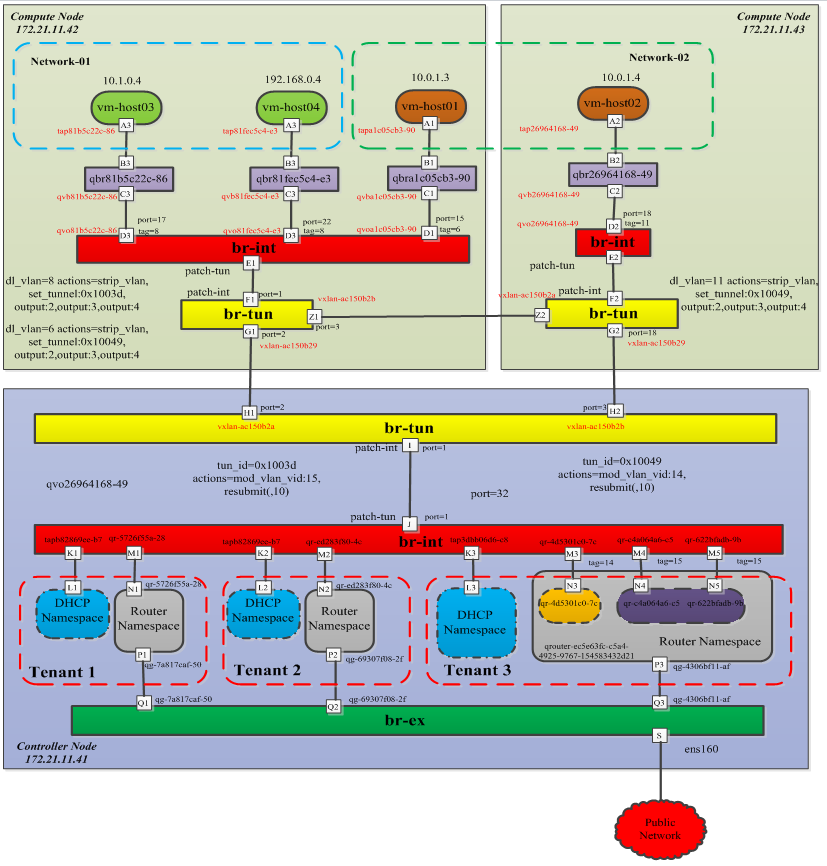
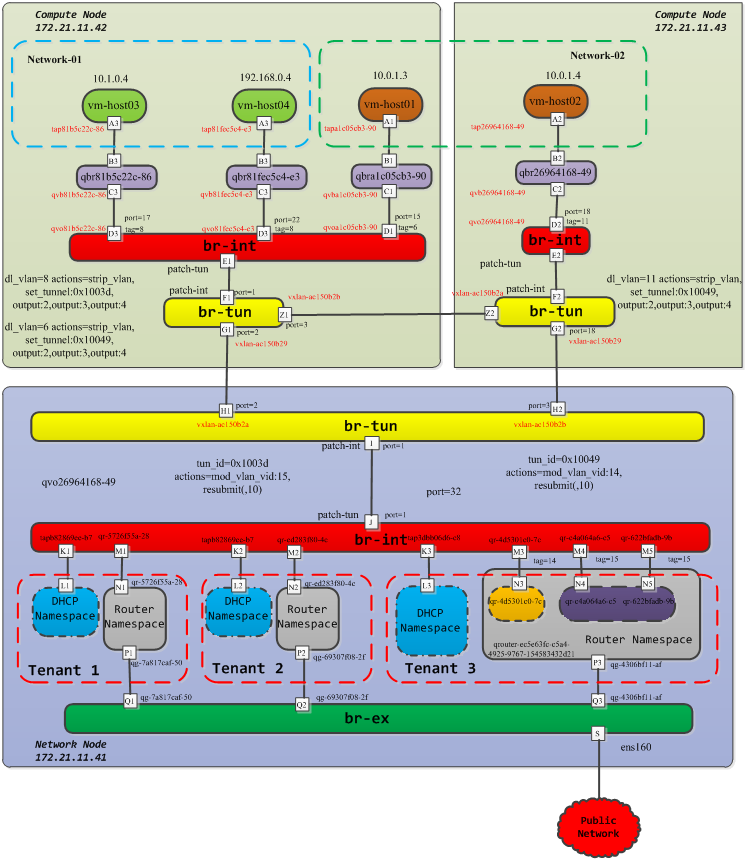
Site updated at 2016-07-25 03:38:03 UTC

diff --git a/index.html b/index.html
@@ -1373,13 +1373,13 @@ Neutron-plugin可以理解为不同网络功能实现的入口，各个厂商可
 </span><span class='line'> cookie=0xb05867d95f1c0bc0, duration=1198890.106s, table=22, n_packets=91, n_bytes=7490, idle_age=65534, hard_age=65534, priority=0 actions=drop</span></code></pre></td></tr></table></div></figure>
 
 
-<h1><strong>3、控制节点的Vxlan流量转发机制</strong></h1>
+<h1><strong>3、网络节点的Vxlan流量转发机制</strong></h1>
 
-<p>多机环境下，控制节点的网桥整体结构如下所示：</p>
+<p>多机环境下，网络节点的网桥整体结构如下所示：</p>
 
 <p><img src="/images/understanding_neutron_controller_node_bridge.PNG"></p>
 
-<p>在该多机环境下，网络节点和控制节点部署在一起，所以这里所说的控制节点的neutron网络服务实际上指的是网络节点所部署的neutron服务，包括DHCP服务和路由服务等。
+<p>在该多机环境下，网络节点和控制节点部署在一起，网络节点所部署的neutron服务，包括DHCP服务和路由服务等。
 该controller节点主要包括三种类型的网桥，br-int,br-tun,br-ex。</p>
 
 <figure class='code'><div class="highlight"><table><tr><td class="gutter"><pre class="line-numbers"><span class='line-number'>1</span>
@@ -1642,7 +1642,7 @@ Neutron-plugin可以理解为不同网络功能实现的入口，各个厂商可
 
 <h2><strong>3.1 vxlan标签设置以及流表转发机制</strong></h2>
 
-<p>类似于计算节点的VXLAN tunnel，controller节点的VXALN规则也是通过br-tun网桥来实现的，该网桥主要根据自身的规则将合适的网包经过 VXLAN 隧道送出去，可以从两个维度来进行思考：</p>
+<p>类似于计算节点的VXLAN tunnel，network节点的VXALN规则也是通过br-tun网桥来实现的，该网桥主要根据自身的规则将合适的网包经过 VXLAN 隧道送出去，可以从两个维度来进行思考：</p>
 
 <ul>
 <li>从vm内部过来的数据包进行规则的设置，数据包带着正确的vlan tag过来，从正确的tunnel扔出去；</li>
@@ -1650,7 +1650,7 @@ Neutron-plugin可以理解为不同网络功能实现的入口，各个厂商可
 </ul>
 
 
-<p>以多机环境中172.21.11.41上的controller节点为例，查看br-tun网桥的信息。可以看到不同的VXLAN tunnel号对应不同的网络连接。</p>
+<p>以多机环境中172.21.11.41上的network节点为例，查看br-tun网桥的信息。可以看到不同的VXLAN tunnel号对应不同的网络连接。</p>
 
 <figure class='code'><div class="highlight"><table><tr><td class="gutter"><pre class="line-numbers"><span class='line-number'>1</span>
 <span class='line-number'>2</span>
@@ -1774,7 +1774,7 @@ Neutron-plugin可以理解为不同网络功能实现的入口，各个厂商可
 
 <h2><strong>3.2 VLAN标签设置以及流表转发机制</strong></h2>
 
-<p>在controller节点上，vlan tag的设置主要在br-int网桥上进行，作为一个正常的二层交换设备进行使用，只是根据vlan和mac进行数据包的转发。接口类型包括：</p>
+<p>在network节点上，vlan tag的设置主要在br-int网桥上进行，作为一个正常的二层交换设备进行使用，只是根据vlan和mac进行数据包的转发。接口类型包括：</p>
 
 <ul>
 <li>tap-xxx，连接到网络 DHCP 服务的命名空间；</li>
@@ -2047,7 +2047,7 @@ Neutron-plugin可以理解为不同网络功能实现的入口，各个厂商可
 </span><span class='line'>qdhcp-3a14c59d-37f1-42a7-a135-29466583d3e2</span></code></pre></td></tr></table></div></figure>
 
 
-<p>在该控制节点上创建的路由服务是qrouter-ec5e63fc-c5a4-4925-9767-154583432d21，于是可以进一步查看namespace中的信息。</p>
+<p>在该network节点上创建的路由服务是qrouter-ec5e63fc-c5a4-4925-9767-154583432d21，于是可以进一步查看namespace中的信息。</p>
 
 <figure class='code'><div class="highlight"><table><tr><td class="gutter"><pre class="line-numbers"><span class='line-number'>1</span>
 <span class='line-number'>2</span>

diff --git a/blog/2016/07/11/understanding-neutron-vlan-vxlan/index.html b/blog/2016/07/11/understanding-neutron-vlan-vxlan/index.html
@@ -755,13 +755,13 @@
 </span><span class='line'> cookie=0xb05867d95f1c0bc0, duration=1198890.106s, table=22, n_packets=91, n_bytes=7490, idle_age=65534, hard_age=65534, priority=0 actions=drop</span></code></pre></td></tr></table></div></figure>
 
 
-<h1><strong>3、控制节点的Vxlan流量转发机制</strong></h1>
+<h1><strong>3、网络节点的Vxlan流量转发机制</strong></h1>
 
-<p>多机环境下，控制节点的网桥整体结构如下所示：</p>
+<p>多机环境下，网络节点的网桥整体结构如下所示：</p>
 
 <p><img src="/images/understanding_neutron_controller_node_bridge.PNG"></p>
 
-<p>在该多机环境下，网络节点和控制节点部署在一起，所以这里所说的控制节点的neutron网络服务实际上指的是网络节点所部署的neutron服务，包括DHCP服务和路由服务等。
+<p>在该多机环境下，网络节点和控制节点部署在一起，网络节点所部署的neutron服务，包括DHCP服务和路由服务等。
 该controller节点主要包括三种类型的网桥，br-int,br-tun,br-ex。</p>
 
 <figure class='code'><div class="highlight"><table><tr><td class="gutter"><pre class="line-numbers"><span class='line-number'>1</span>
@@ -1024,7 +1024,7 @@
 
 <h2><strong>3.1 vxlan标签设置以及流表转发机制</strong></h2>
 
-<p>类似于计算节点的VXLAN tunnel，controller节点的VXALN规则也是通过br-tun网桥来实现的，该网桥主要根据自身的规则将合适的网包经过 VXLAN 隧道送出去，可以从两个维度来进行思考：</p>
+<p>类似于计算节点的VXLAN tunnel，network节点的VXALN规则也是通过br-tun网桥来实现的，该网桥主要根据自身的规则将合适的网包经过 VXLAN 隧道送出去，可以从两个维度来进行思考：</p>
 
 <ul>
 <li>从vm内部过来的数据包进行规则的设置，数据包带着正确的vlan tag过来，从正确的tunnel扔出去；</li>
@@ -1032,7 +1032,7 @@
 </ul>
 
 
-<p>以多机环境中172.21.11.41上的controller节点为例，查看br-tun网桥的信息。可以看到不同的VXLAN tunnel号对应不同的网络连接。</p>
+<p>以多机环境中172.21.11.41上的network节点为例，查看br-tun网桥的信息。可以看到不同的VXLAN tunnel号对应不同的网络连接。</p>
 
 <figure class='code'><div class="highlight"><table><tr><td class="gutter"><pre class="line-numbers"><span class='line-number'>1</span>
 <span class='line-number'>2</span>
@@ -1156,7 +1156,7 @@
 
 <h2><strong>3.2 VLAN标签设置以及流表转发机制</strong></h2>
 
-<p>在controller节点上，vlan tag的设置主要在br-int网桥上进行，作为一个正常的二层交换设备进行使用，只是根据vlan和mac进行数据包的转发。接口类型包括：</p>
+<p>在network节点上，vlan tag的设置主要在br-int网桥上进行，作为一个正常的二层交换设备进行使用，只是根据vlan和mac进行数据包的转发。接口类型包括：</p>
 
 <ul>
 <li>tap-xxx，连接到网络 DHCP 服务的命名空间；</li>
@@ -1429,7 +1429,7 @@
 </span><span class='line'>qdhcp-3a14c59d-37f1-42a7-a135-29466583d3e2</span></code></pre></td></tr></table></div></figure>
 
 
-<p>在该控制节点上创建的路由服务是qrouter-ec5e63fc-c5a4-4925-9767-154583432d21，于是可以进一步查看namespace中的信息。</p>
+<p>在该network节点上创建的路由服务是qrouter-ec5e63fc-c5a4-4925-9767-154583432d21，于是可以进一步查看namespace中的信息。</p>
 
 <figure class='code'><div class="highlight"><table><tr><td class="gutter"><pre class="line-numbers"><span class='line-number'>1</span>
 <span class='line-number'>2</span>
